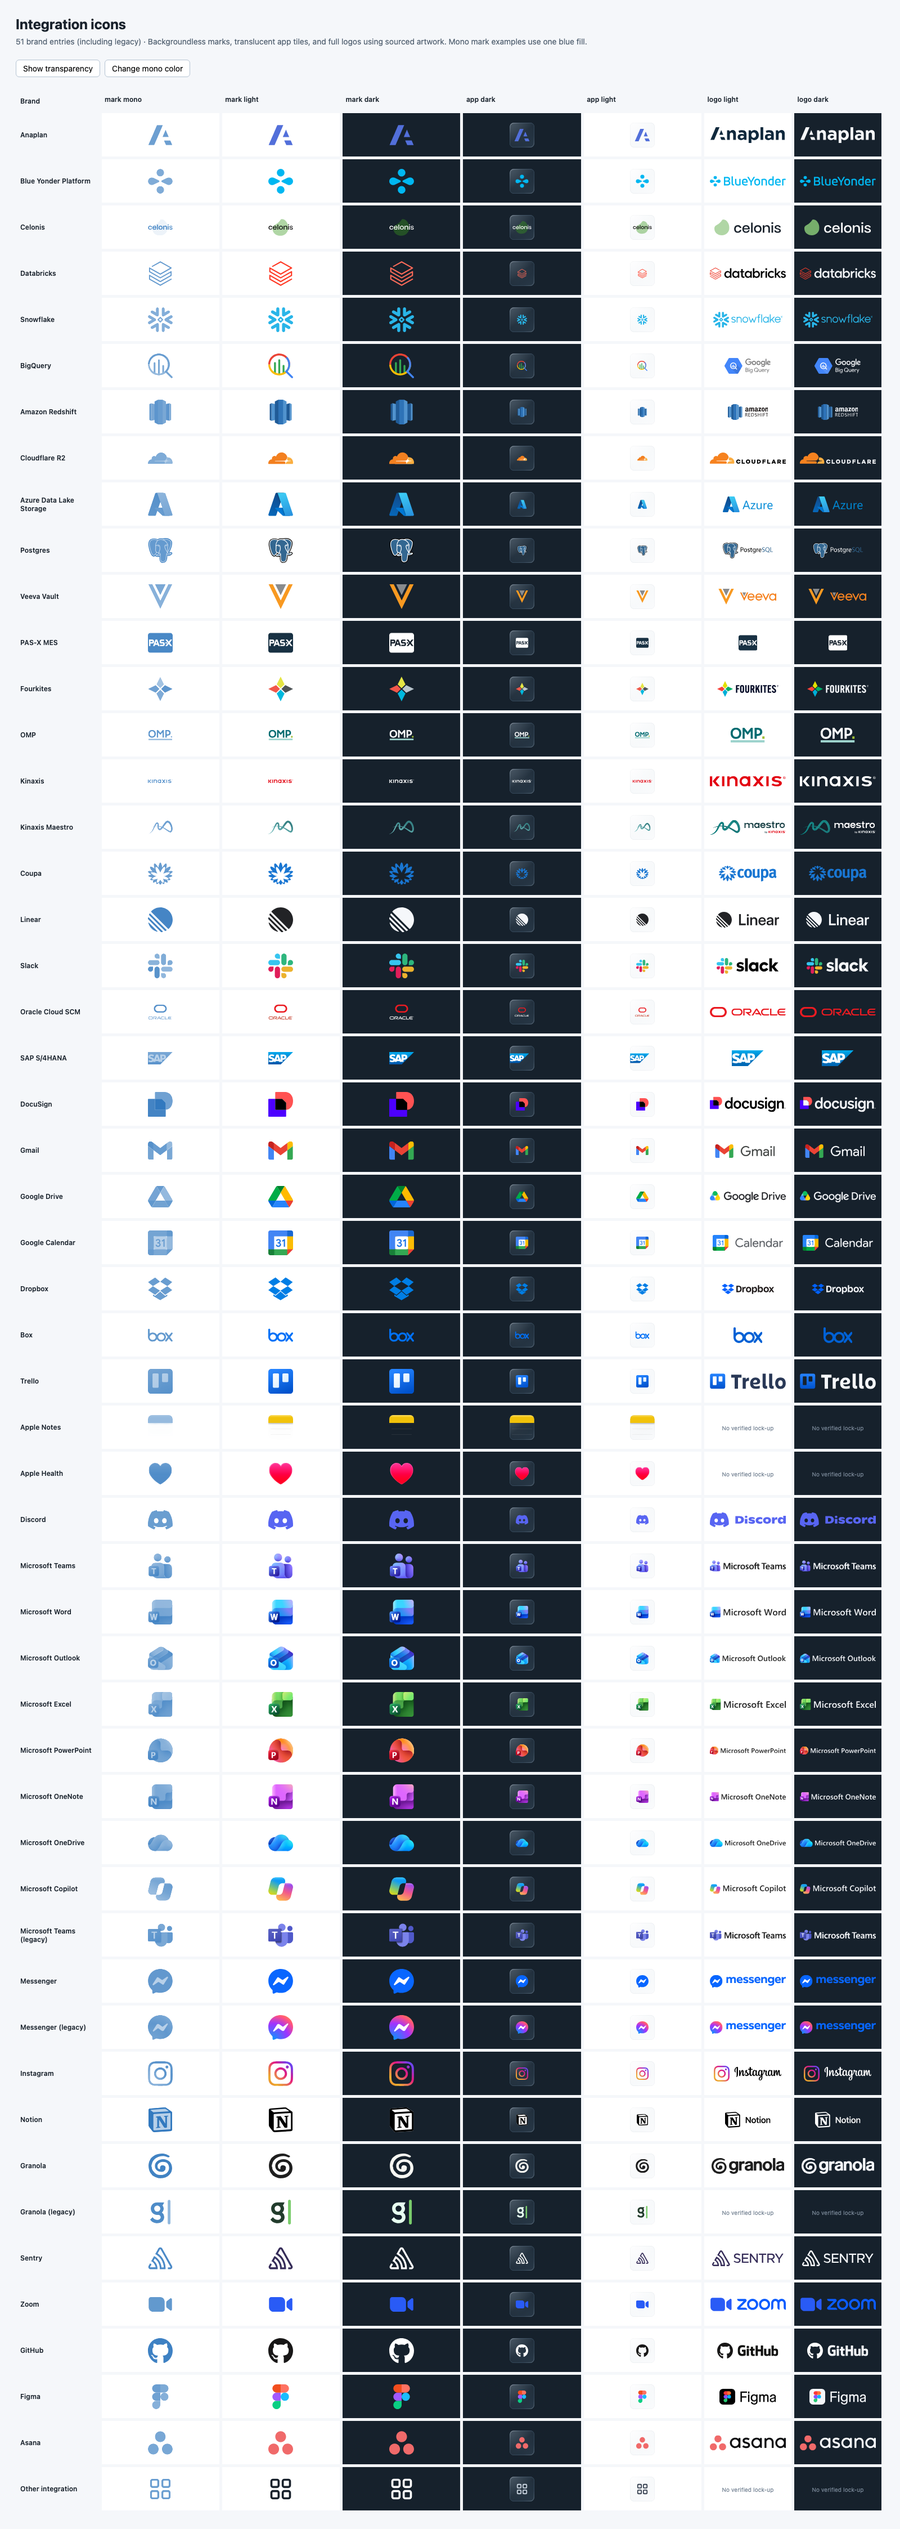
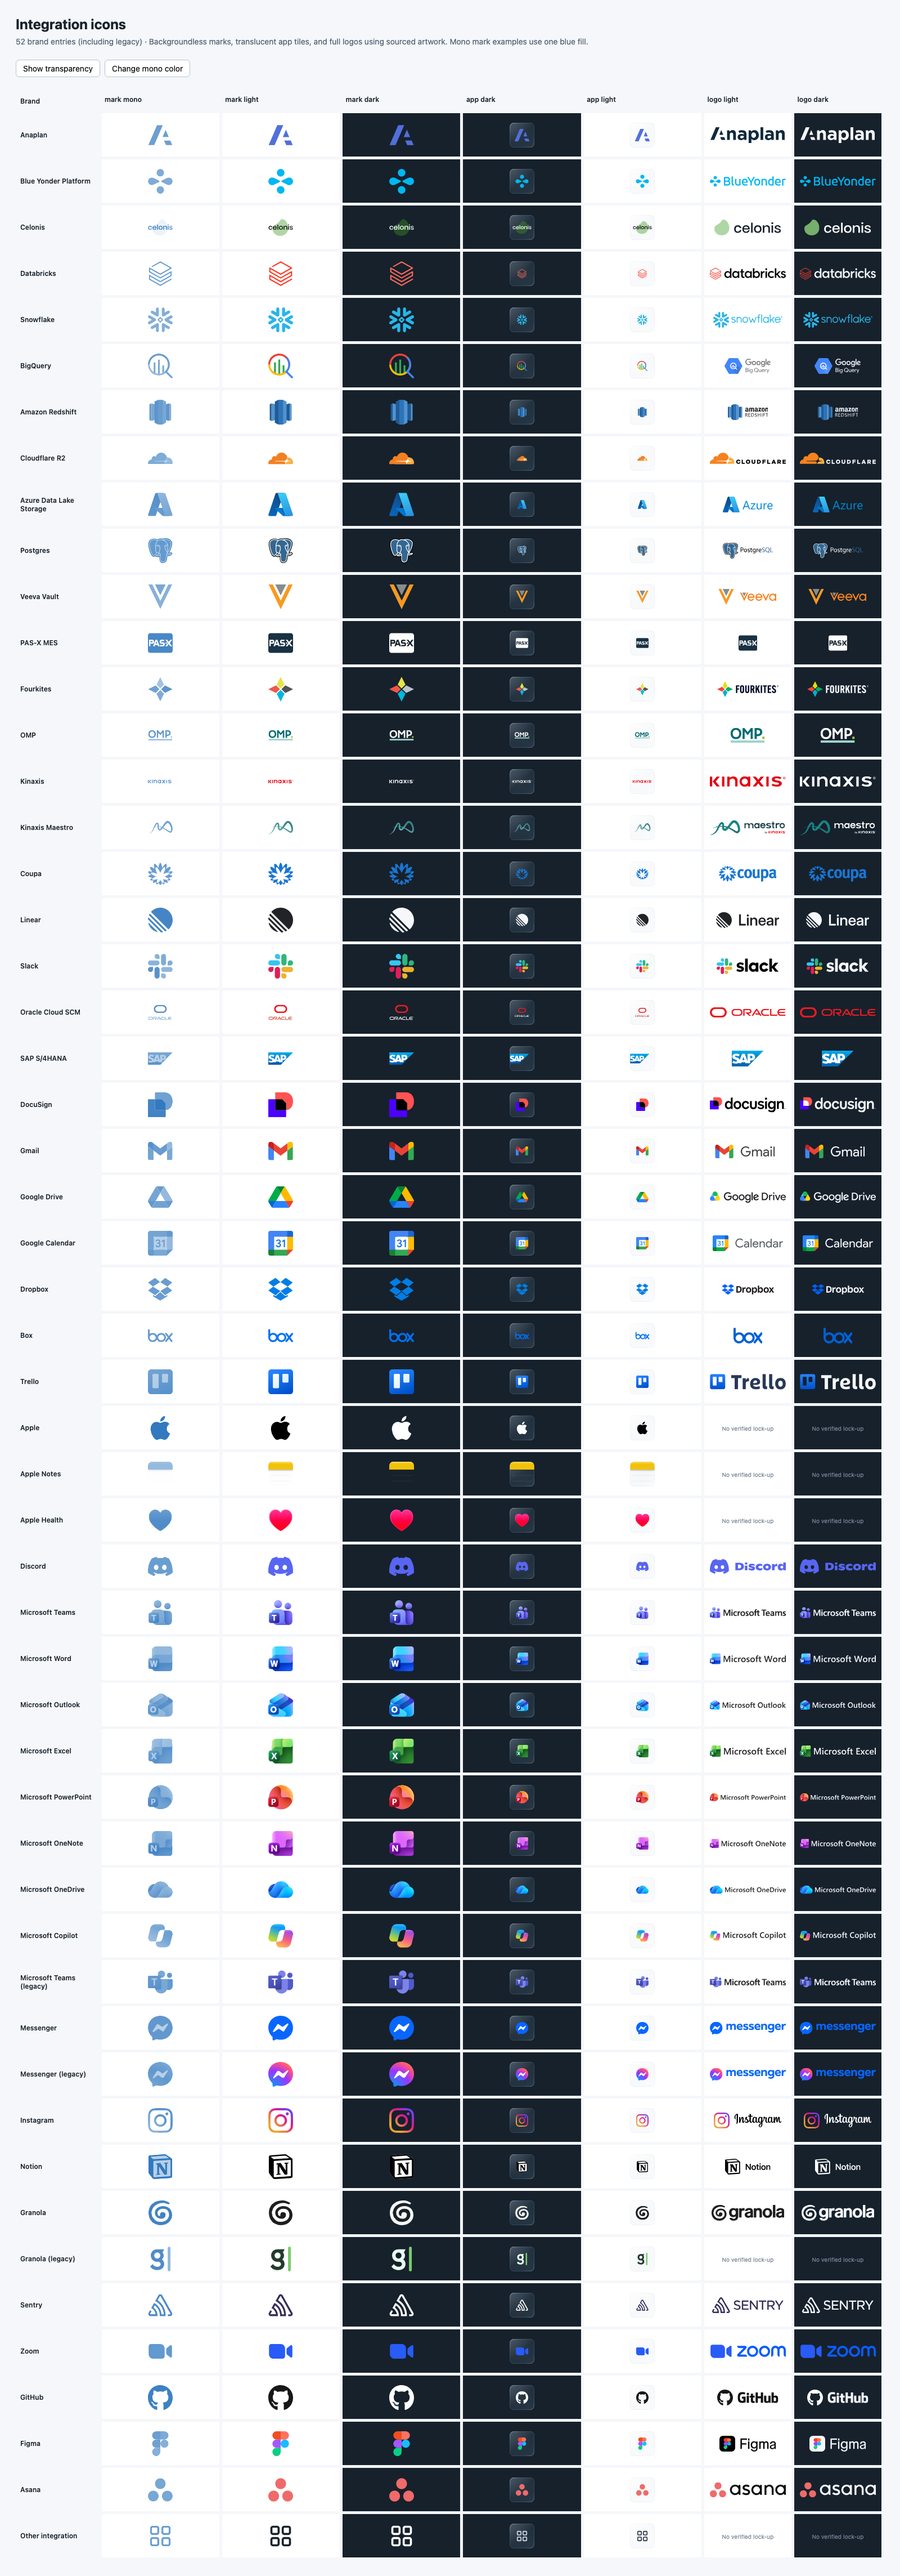
Add separate Apple corporate brand assets

diff --git a/libs/@hashintel/ds-icons/src/integration-icon/geometry/apple.tsx b/libs/@hashintel/ds-icons/src/integration-icon/geometry/apple.tsx
@@ -1,0 +1,10 @@
+export const markLight = ({ id: _id }: { id: string }) => (
+  <g fill="#000000">
+    <path d="m13.0729 17.6825a3.61 3.61 0 0 0 -1.7248 3.0365 3.5132 3.5132 0 0 0 2.1379 3.2223 8.394 8.394 0 0 1 -1.0948 2.2618c-.6816.9812-1.3943 1.9623-2.4787 1.9623s-1.3633-.63-2.613-.63c-1.2187 0-1.6525.6507-2.644.6507s-1.6834-.9089-2.4787-2.0243a9.7842 9.7842 0 0 1 -1.6628-5.2776c0-3.0984 2.014-4.7405 3.9969-4.7405 1.0535 0 1.9314.6919 2.5924.6919.63 0 1.6112-.7333 2.8092-.7333a3.7579 3.7579 0 0 1 3.1604 1.5802zm-3.7284-2.8918a3.5615 3.5615 0 0 0 .8469-2.22 1.5353 1.5353 0 0 0 -.031-.32 3.5686 3.5686 0 0 0 -2.3445 1.2084 3.4629 3.4629 0 0 0 -.8779 2.1585 1.419 1.419 0 0 0 .031.2892 1.19 1.19 0 0 0 .2169.0207 3.0935 3.0935 0 0 0 2.1586-1.1368z" />
+  </g>
+);
+export const markDark = ({ id: _id }: { id: string }) => (
+  <g fill="#FFFFFF">
+    <path d="m13.0729 17.6825a3.61 3.61 0 0 0 -1.7248 3.0365 3.5132 3.5132 0 0 0 2.1379 3.2223 8.394 8.394 0 0 1 -1.0948 2.2618c-.6816.9812-1.3943 1.9623-2.4787 1.9623s-1.3633-.63-2.613-.63c-1.2187 0-1.6525.6507-2.644.6507s-1.6834-.9089-2.4787-2.0243a9.7842 9.7842 0 0 1 -1.6628-5.2776c0-3.0984 2.014-4.7405 3.9969-4.7405 1.0535 0 1.9314.6919 2.5924.6919.63 0 1.6112-.7333 2.8092-.7333a3.7579 3.7579 0 0 1 3.1604 1.5802zm-3.7284-2.8918a3.5615 3.5615 0 0 0 .8469-2.22 1.5353 1.5353 0 0 0 -.031-.32 3.5686 3.5686 0 0 0 -2.3445 1.2084 3.4629 3.4629 0 0 0 -.8779 2.1585 1.419 1.419 0 0 0 .031.2892 1.19 1.19 0 0 0 .2169.0207 3.0935 3.0935 0 0 0 2.1586-1.1368z" />
+  </g>
+);

diff --git a/libs/@hashintel/ds-icons/src/integration-icon.test.tsx b/libs/@hashintel/ds-icons/src/integration-icon.test.tsx
@@ -48,9 +48,9 @@ describe("IntegrationIcon", () => {
   });
 
   it("maps the directory entries and additional brands separately", () => {
-    expect(Object.keys(integrationIconNameByIntegration)).toHaveLength(52);
+    expect(Object.keys(integrationIconNameByIntegration)).toHaveLength(53);
     expect(new Set(Object.values(integrationIconNameByIntegration)).size).toBe(
-      48,
+      49,
     );
     expect(integrationIconNameByIntegration["Microsoft Teams"]).toBe(
       "microsoftTeams",
@@ -65,6 +65,8 @@ describe("IntegrationIcon", () => {
       integrationIconCatalog.find((icon) => icon.name === "granolaLegacy")
         ?.integrationNames,
     ).toEqual([]);
+    expect(integrationIconNameByIntegration["Apple"]).toBe("apple");
+    expect(integrationIconNameByIntegration["Apple Notes"]).toBe("appleNotes");
     expect(integrationIconNameByIntegration["Apple Health"]).toBe(
       "appleHealth",
     );

diff --git a/libs/@hashintel/ds-icons/src/integration-icon-catalog.ts b/libs/@hashintel/ds-icons/src/integration-icon-catalog.ts
@@ -636,6 +636,19 @@ export const integrationIconCatalog = [
     logoRaster: false,
   },
   {
+    name: "apple",
+    slug: "apple",
+    label: "Apple",
+    integrationNames: ["Apple"],
+    source: "https://www.apple.com/",
+    category: "Integrations",
+    variants: ["mark-mono", "mark-light", "mark-dark", "app-dark", "app-light"],
+    logoSource: null,
+    logoNotes:
+      "Corporate Apple symbol sourced as a native SVG from Apple's website navigation, with navigation padding removed. No separate full-logo lock-up was verified. Only mark and app-tile variants are provided.",
+    logoRaster: false,
+  },
+  {
     name: "appleNotes",
     slug: "apple-notes",
     label: "Apple Notes",

diff --git a/libs/@hashintel/ds-icons/src/integration-icon/geometry.ts b/libs/@hashintel/ds-icons/src/integration-icon/geometry.ts
@@ -1,4 +1,5 @@
 import * as anaplan from "./geometry/anaplan";
+import * as apple from "./geometry/apple";
 import * as appleHealth from "./geometry/apple-health";
 import * as appleNotes from "./geometry/apple-notes";
 import * as asana from "./geometry/asana";
@@ -248,6 +249,13 @@ export const integrationGeometry = {
     markViewBox: "0 0 32 32",
     logoViewBox: "0 0 312 64",
     ratio: 2,
+    alignment: "center",
+  },
+  apple: {
+    ...apple,
+    markViewBox: "0.2140 11.9507 13.5720 16.5354",
+    logoViewBox: null,
+    ratio: 1.9,
     alignment: "center",
   },
   appleNotes: {

diff --git a/libs/@hashintel/ds-icons/THIRD-PARTY-NOTICES.md b/libs/@hashintel/ds-icons/THIRD-PARTY-NOTICES.md
@@ -4,7 +4,7 @@ Brand names, marks, and logos belong to their respective owners. The package's M
 
 The existing HASH integration artwork comes from `hashintel/internal-sites` (AGPL-3.0). Additional vector artwork comes from the brands' sites and the linked archives. The `gilbarbara/logos` collection uses CC0; `pheralb/svgl` and `devicons/devicon` use MIT. Those collection licenses do not grant trademark rights. The package preserves the artwork's provenance below.
 
-Gmail full-logo files embed authentic PNG artwork. Microsoft Teams combines its product mark with a vectorized wordmark from an official Microsoft PDF. Veeva Vault pairs its mark with the Veeva corporate wordmark. BigQuery and Redshift use archived product lock-ups. Apple Notes and Apple Health have no verified full-logo assets and expose only mark and tile variants.
+Gmail full-logo files embed authentic PNG artwork. Microsoft Teams combines its product mark with a vectorized wordmark from an official Microsoft PDF. Veeva Vault pairs its mark with the Veeva corporate wordmark. BigQuery and Redshift use archived product lock-ups. Apple, Apple Notes, and Apple Health have no verified separate full-logo assets and expose only mark and tile variants.
 
 Celonis, Veeva Vault, Oracle, Messenger, Instagram, Zoom, and GitHub lock-ups combine the sourced mark and wordmark; they are compositions, not downloaded complete lock-ups. The Celonis and Oracle marks omit their embedded lettering to avoid repeating the name. Their original mark assets remain available in the mark and tile variants.
 
@@ -40,6 +40,7 @@ Word, Outlook, Excel, PowerPoint, OneNote, and OneDrive use Microsoft's October 
 | Dropbox                  | [Source](https://github.com/hashintel/internal-sites/blob/ef1c3c6faa4e58ef1db48edc41627e5e960adced/packages/integrations-catalog/src/icons/dropbox-icon.tsx)          | [Source](https://github.com/pheralb/svgl/blob/c0ec7ab121354ac1096b17b3aebbb293c8ce5600/static/library/dropbox_wordmark.svg)                                     |                                                                                                                                                                                                                                                                                                                                                                                                                     |
 | Box                      | [Source](https://github.com/hashintel/internal-sites/blob/ef1c3c6faa4e58ef1db48edc41627e5e960adced/packages/integrations-catalog/src/icons/box-icon.tsx)              | [Source](https://github.com/gilbarbara/logos/blob/22f03ffc4a652309d1fea4ade70f46e9e1d6602c/logos/box.svg)                                                       |                                                                                                                                                                                                                                                                                                                                                                                                                     |
 | Trello                   | [Source](https://github.com/hashintel/internal-sites/blob/ef1c3c6faa4e58ef1db48edc41627e5e960adced/packages/integrations-catalog/src/icons/trello-icon.tsx)           | [Source](https://github.com/pheralb/svgl/blob/c0ec7ab121354ac1096b17b3aebbb293c8ce5600/static/library/trello-wordmark.svg)                                      |                                                                                                                                                                                                                                                                                                                                                                                                                     |
+| Apple | [Source](https://www.apple.com/) | Unavailable | Native corporate-symbol SVG from Apple's global navigation, retrieved 2026-11-05. Navigation padding removed; black/light and white/dark treatments. Separate from the Apple Notes and Apple Health entries. No verified separate full-logo lock-up. |
 | Apple Notes              | [Source](https://github.com/hashintel/internal-sites/blob/ef1c3c6faa4e58ef1db48edc41627e5e960adced/packages/integrations-catalog/src/icons/apple-notes-dark-icon.tsx) | Unavailable                                                                                                                                                     | No authentic full-logo lock-up was verified. Only mark and app-tile variants are provided.                                                                                                                                                                                                                                                                                                                          |
 | Apple Health | [Source](https://apps.apple.com/us/app/apple-health/id1242545199) | Unavailable | Heart vectorized from Apple's current App Store artwork (version 2.9, retrieved 2026-11-05), with the pink-to-red gradient and bevel reproduced as vector paths and gradients. The backgroundless mark omits the original white tile; app variants use the shared translucent tile. No verified full-logo lock-up. |
 | Discord                  | [Source](https://github.com/hashintel/internal-sites/blob/ef1c3c6faa4e58ef1db48edc41627e5e960adced/packages/integrations-catalog/src/icons/discord-icon.tsx)          | [Source](https://github.com/gilbarbara/logos/blob/22f03ffc4a652309d1fea4ade70f46e9e1d6602c/logos/discord.svg)                                                   |                                                                                                                                                                                                                                                                                                                                                                                                                     |

diff --git a/libs/@hashintel/ds-icons/README.md b/libs/@hashintel/ds-icons/README.md
@@ -167,7 +167,7 @@ hover feedback as the rest of the set; continuous effects remain opt-in.
 
 ## Integrations
 
-`IntegrationIcon` provides a separate **Integrations** category for HASH's 43 integration listings, plus a separate Kinaxis corporate entry, Apple Health, and seven additional Microsoft apps (48 current brands in total). `integrationIconCatalog` lists the brands, integration-name aliases, supported variants, and artwork sources. These icons use native SVG and need no Panda configuration.
+`IntegrationIcon` provides a separate **Integrations** category for HASH's 43 integration listings, plus separate Kinaxis and Apple corporate entries, Apple Health, and seven additional Microsoft apps (49 current brands in total). `integrationIconCatalog` lists the brands, integration-name aliases, supported variants, and artwork sources. These icons use native SVG and need no Panda configuration.
 
 ```tsx
 import {
@@ -203,7 +203,7 @@ App tiles share a translucent tinted surface, soft sheen, and reflective corner 
 
 Icons are decorative unless given `title`, `aria-label`, or `aria-labelledby`. The default variant is `mark-mono`. The mono mark applies the caller's hue to the completed artwork, so overlapping shapes, masks, and gradients retain their detail on either background.
 
-46 current brands have all seven variants. The `microsoftTeamsLegacy` and `messengerLegacy` options also have all seven. Apple Notes and Apple Health have the five mark and tile variants because no authentic full-logo lock-ups were verified. The `genericApp` fallback and the `granolaLegacy` option also have only those five variants. Check each catalogue entry's `variants` before showing a logo selector; requesting an unavailable full logo throws an error.
+46 current brands have all seven variants. The `microsoftTeamsLegacy` and `messengerLegacy` options also have all seven. Apple, Apple Notes, and Apple Health have the five mark and tile variants because no separate full-logo lock-ups were verified. The `genericApp` fallback and the `granolaLegacy` option also have only those five variants. Check each catalogue entry's `variants` before showing a logo selector; requesting an unavailable full logo throws an error.
 
 Gmail full logos embed authentic PNG artwork. All other full logos are vectors. Microsoft Teams pairs its product mark with a vectorized wordmark from an official Microsoft PDF. Veeva Vault pairs its mark with Veeva's corporate wordmark. BigQuery and Redshift use archived product lock-ups; the source and any limitations are recorded in the catalogue and [third-party notices](./THIRD-PARTY-NOTICES.md).
 
@@ -212,6 +212,8 @@ Standalone SVGs are exported as `@hashintel/ds-icons/integrations/svg/<slug>/<va
 `microsoftWord`, `microsoftOutlook`, `microsoftExcel`, `microsoftPowerPoint`, `microsoftOneNote`, `microsoftOneDrive`, and `microsoftCopilot` provide all seven variants using current Microsoft product marks. Copilot uses the two-part 2026 mark. Their full logos pair each mark with outlined Segoe UI Semibold lettering, using the same spacing and light/dark text colors as Teams. These are composed lock-ups; no fonts are loaded at runtime.
 
 `microsoftTeams` uses the current rounded Teams mark. `microsoftTeamsLegacy` preserves the previous mark and full-logo compositions; the “Microsoft Teams” integration alias always uses the current artwork.
+
+`apple` is the corporate brand, separate from `appleNotes` and `appleHealth`. Its native SVG symbol is black in light mode and white in dark mode; its mono variant uses the caller's hue. The “Apple” alias resolves only to this corporate entry.
 
 `appleHealth` provides a backgroundless heart vectorized from Apple's current App Store artwork, with its pink-to-red gradient and subtle bevel. Its app variants use the shared translucent tiles; the “Apple Health” integration alias resolves to this set.
 
